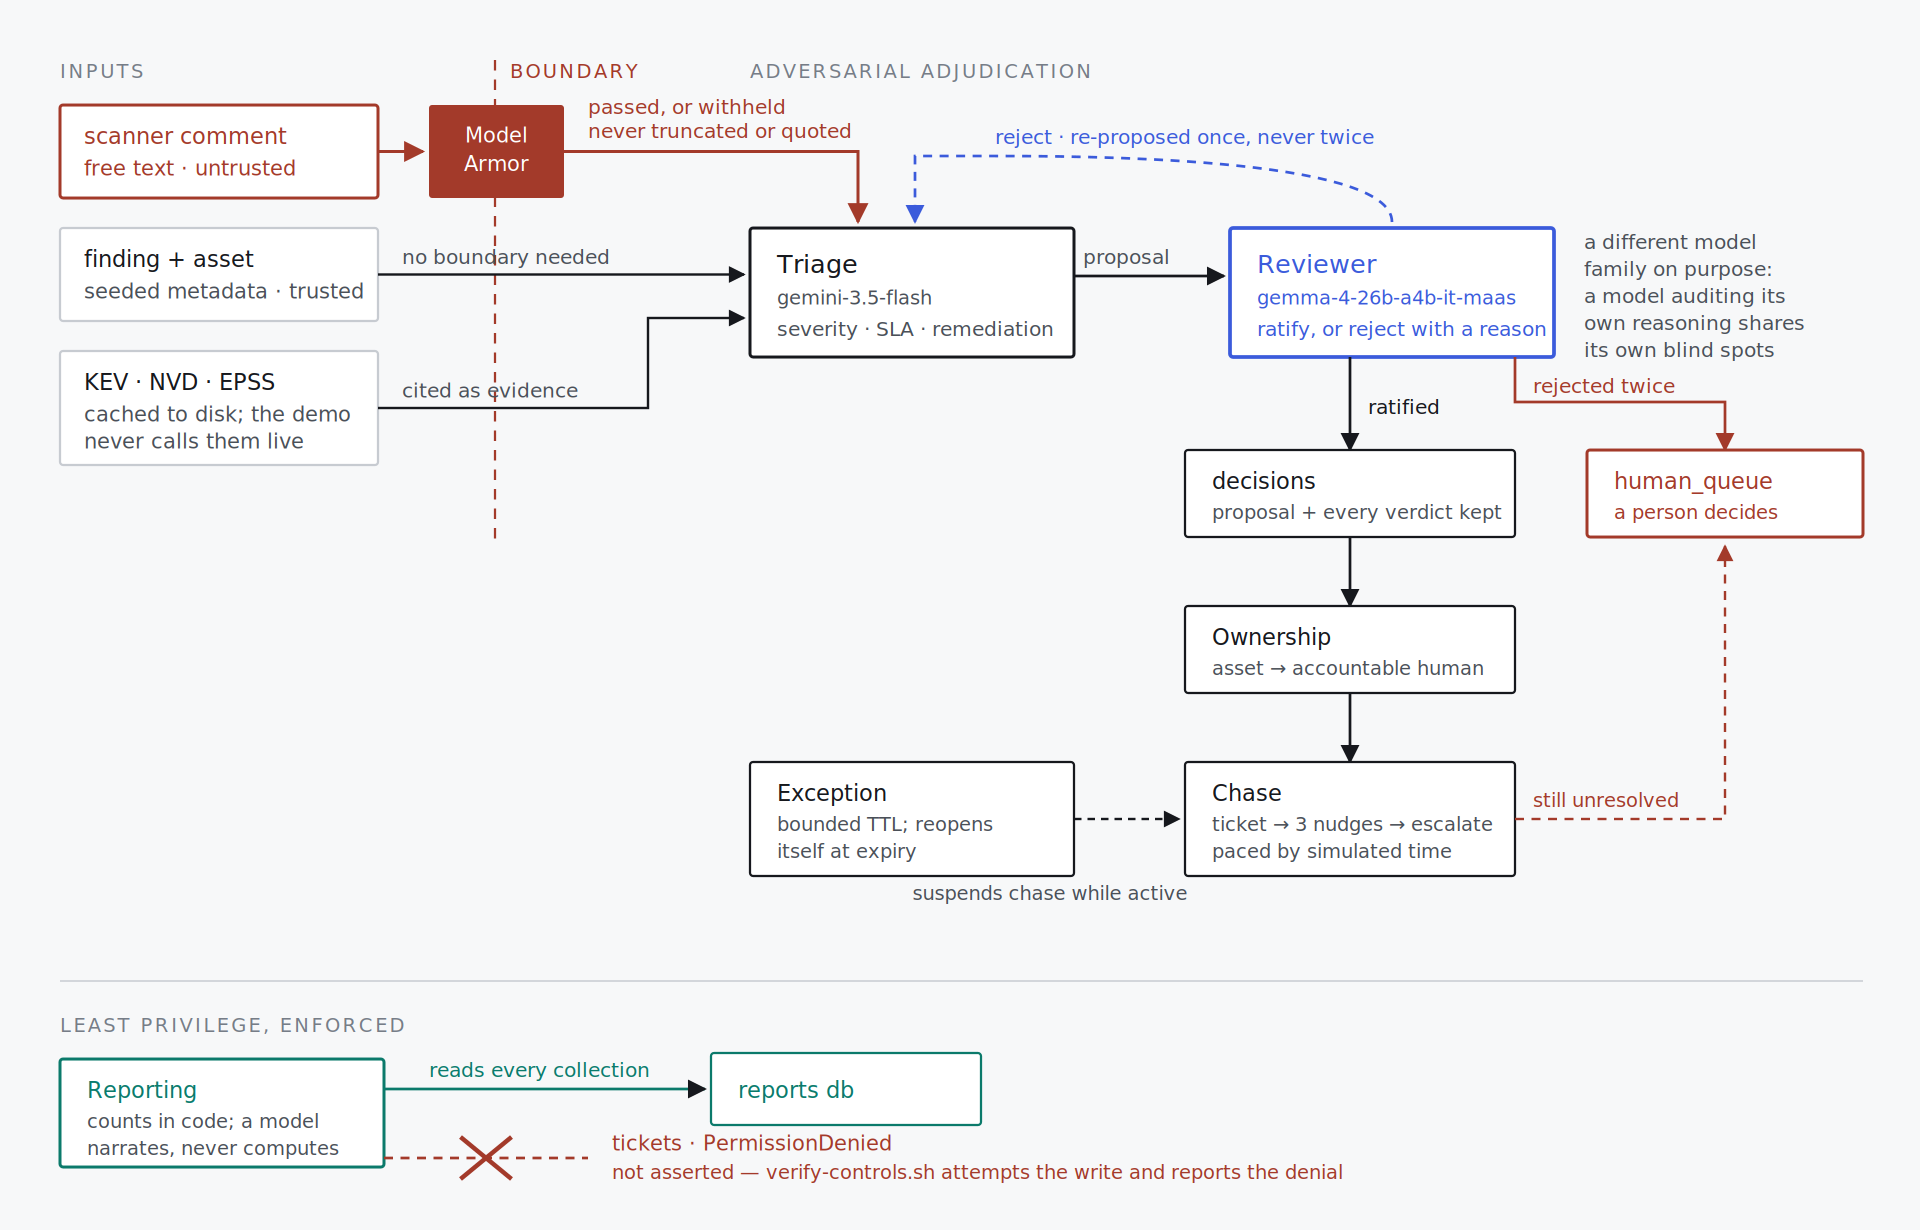
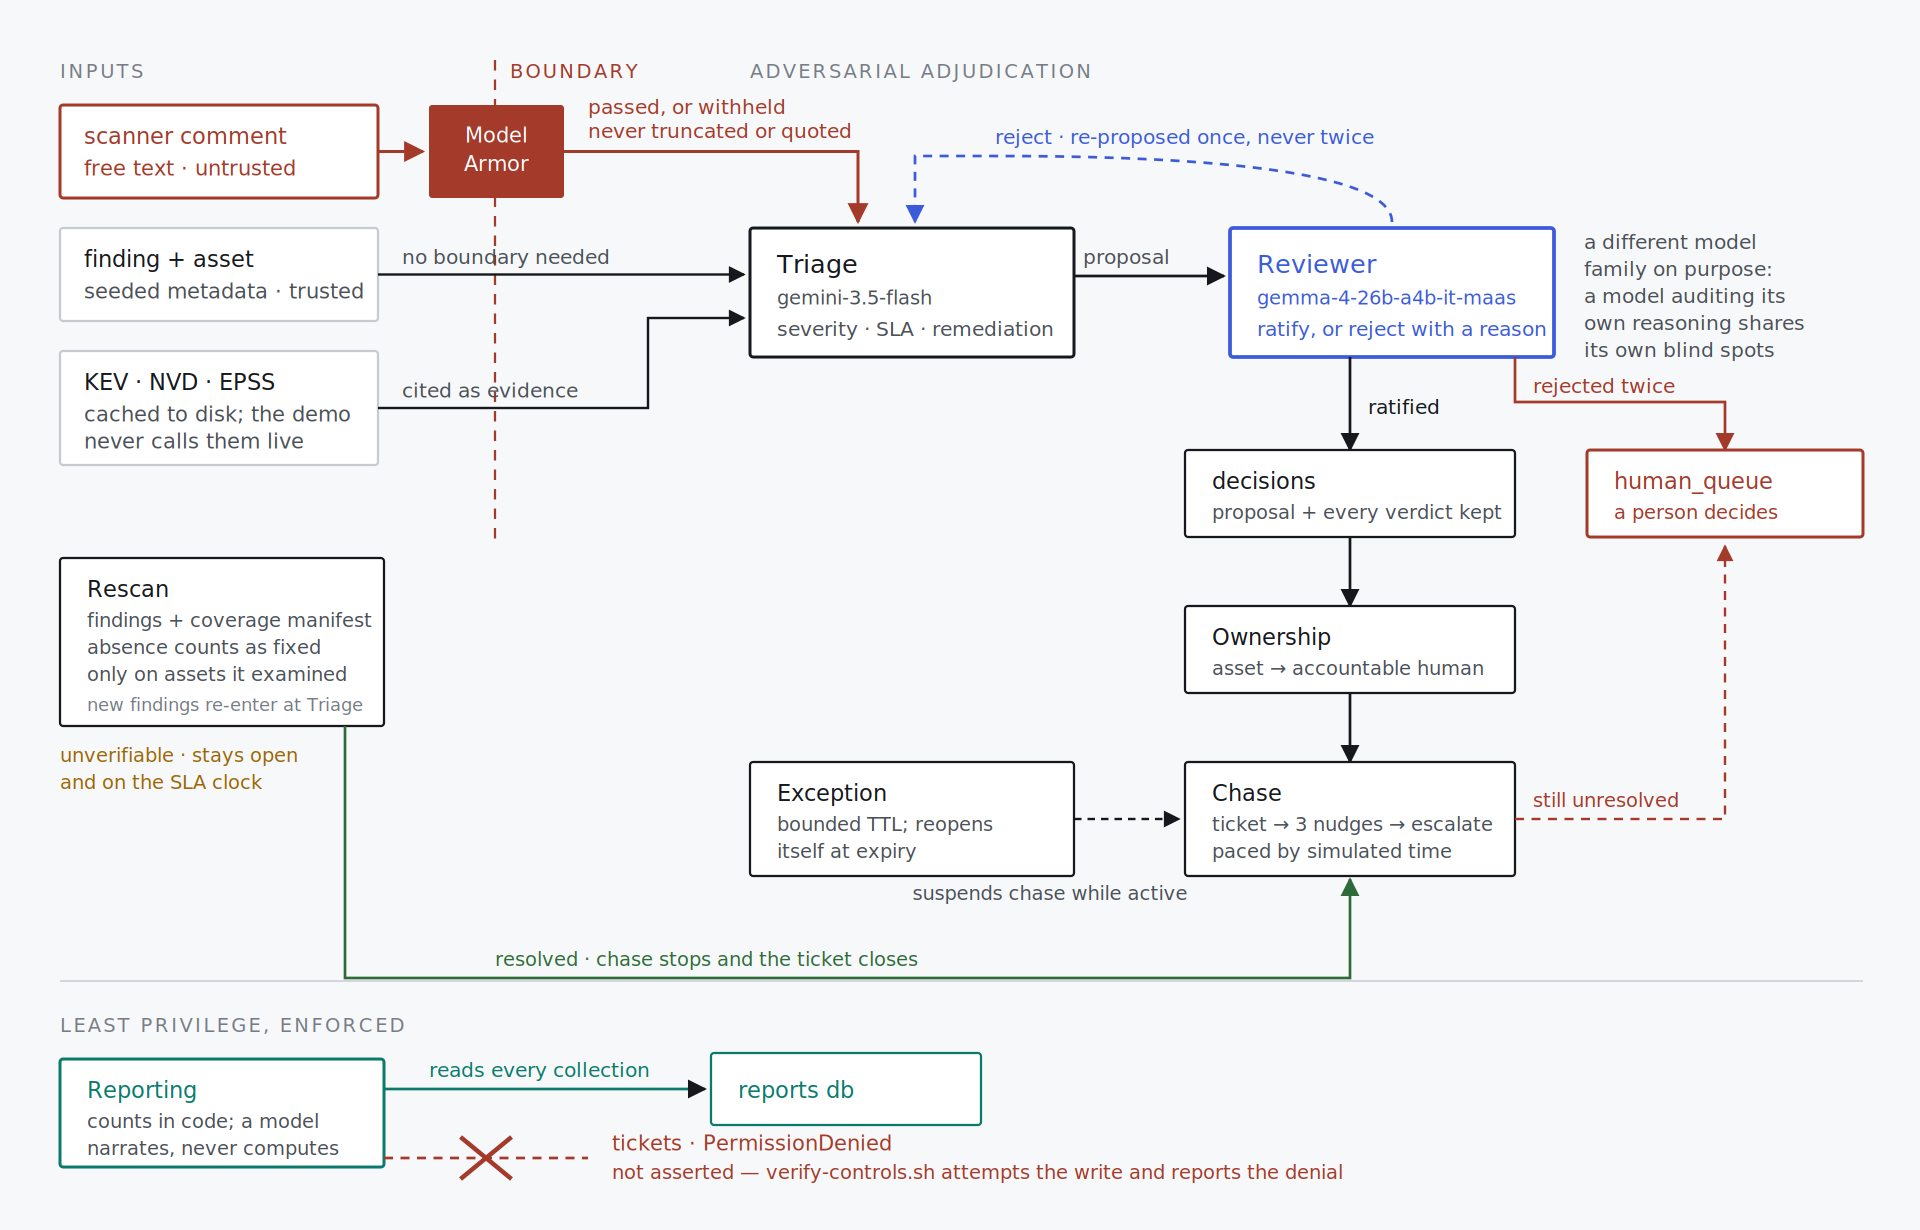
Draw the path that ends a chase for a good reason
The diagram had no rescan, so the only way out of Chase it showed was
escalation to a person. That made the fleet look like something that presses
until a human intervenes, which was accurate until today and is not any more.

Rescan sits with the inputs rather than after Chase, because it is one: a
finding is closed by evidence arriving from outside, never by the fleet
deciding it has pressed for long enough. The coverage manifest is named in the
box, since without one absence cannot mean anything.

Both outcomes are drawn. Green returns to Chase and ends it. Amber says what
happens to a finding the scan could not vouch for -- open, still chased, still
on the clock -- because a diagram showing only the closing path would repeat
the overclaim the coverage gate exists to prevent.

The first attempt read as though a rescan's findings skipped Model Armor: the
box sits left of the boundary line and nothing said where new findings go.
They go to Triage and are screened like any other untrusted text, and the box
now says so. Rendered and inspected rather than reasoned about, which is also
how the text overflowing its box and the amber note crossing the boundary line
were caught.

PNG regenerated from the source at the same 1920x1230 it has always been.

Changed region(s): [[0.0312, 0.4634, 0.1875, 0.6488], [0.1875, 0.7724, 0.7188, 0.8033], [0.6875, 0.7106, 0.7188, 0.7415]]

diff --git a/README.md b/README.md
@@ -126,9 +126,12 @@ guesses surface as a confident closure instead of an error.
 
 ![Architecture](docs/architecture.png)
 
-*One finding's path through the fleet. Source: [`docs/architecture.svg`](docs/architecture.svg).
-Every record written anywhere on this path carries both `real_ts` and `sim_ts`; the deadlines
-in Chase run on the second while the first stays wall clock.*
+*One finding's path through the fleet, and the two ways it can leave. Source:
+[`docs/architecture.svg`](docs/architecture.svg). Every record written anywhere on this path
+carries both `real_ts` and `sim_ts`; the deadlines in Chase run on the second while the first
+stays wall clock. The green return path is the only one that ends a chase for a good reason —
+and it is drawn from Rescan rather than from Chase because a finding is closed by evidence
+arriving from outside, never by the fleet deciding it has pressed for long enough.*
 
 ![Which identity can reach which resource](docs/identities.png)
 
